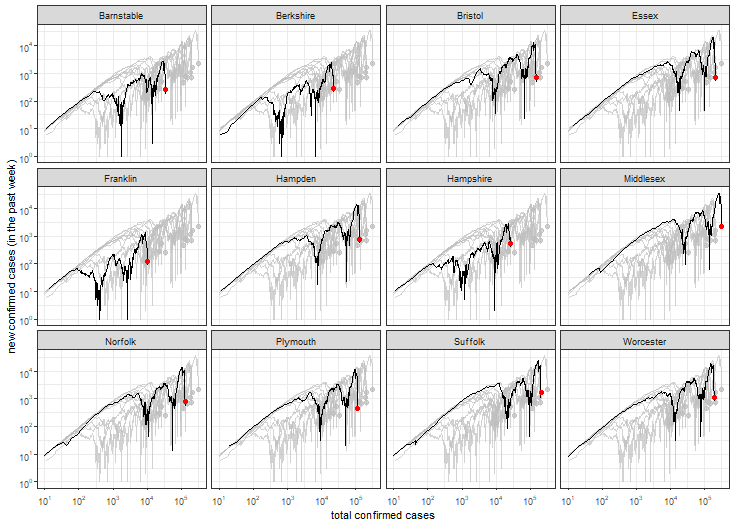
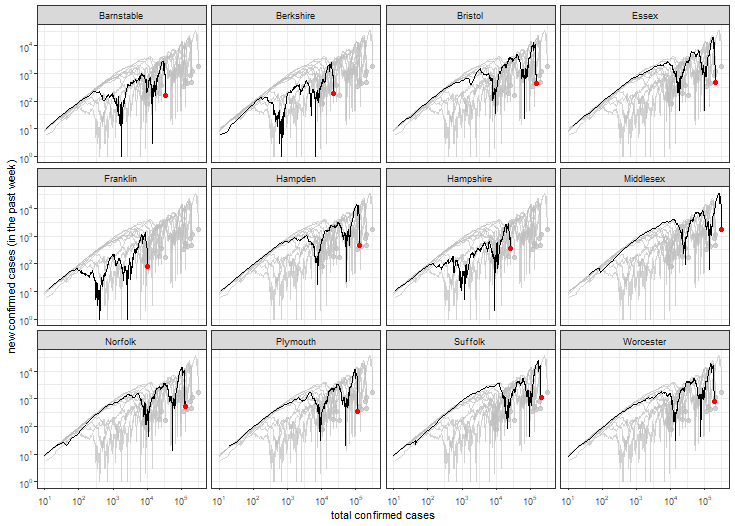
updated repo

diff --git a/README.md b/README.md
@@ -1,4 +1,4 @@
-Trends in COVID-19 for counties in the U.S. state of Massachusetts (updated on 2022-03-01)
+Trends in COVID-19 for counties in the U.S. state of Massachusetts (updated on 2022-03-02)
 ==========================================================================================
 
 ![trends in covid-19 cases by county in the U.S. state of
